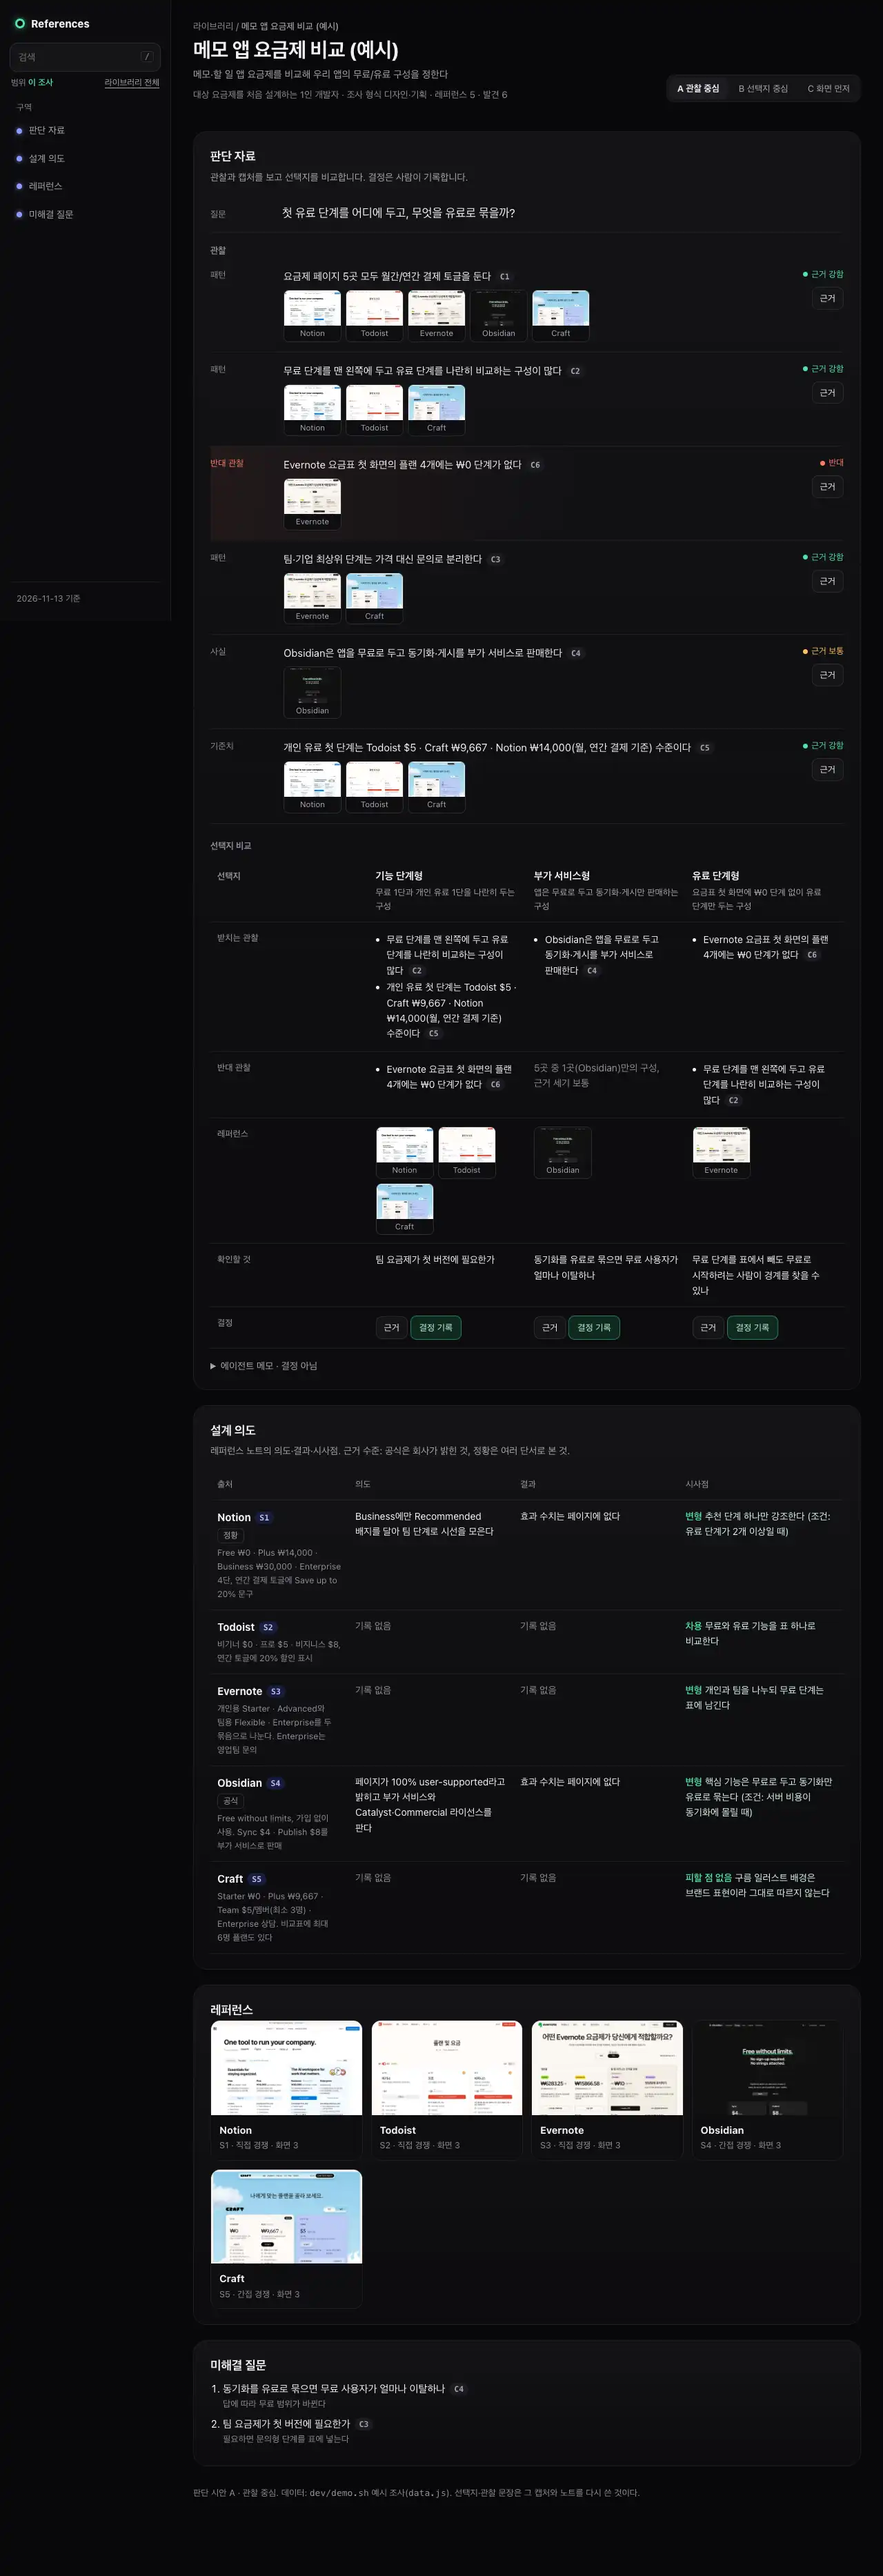
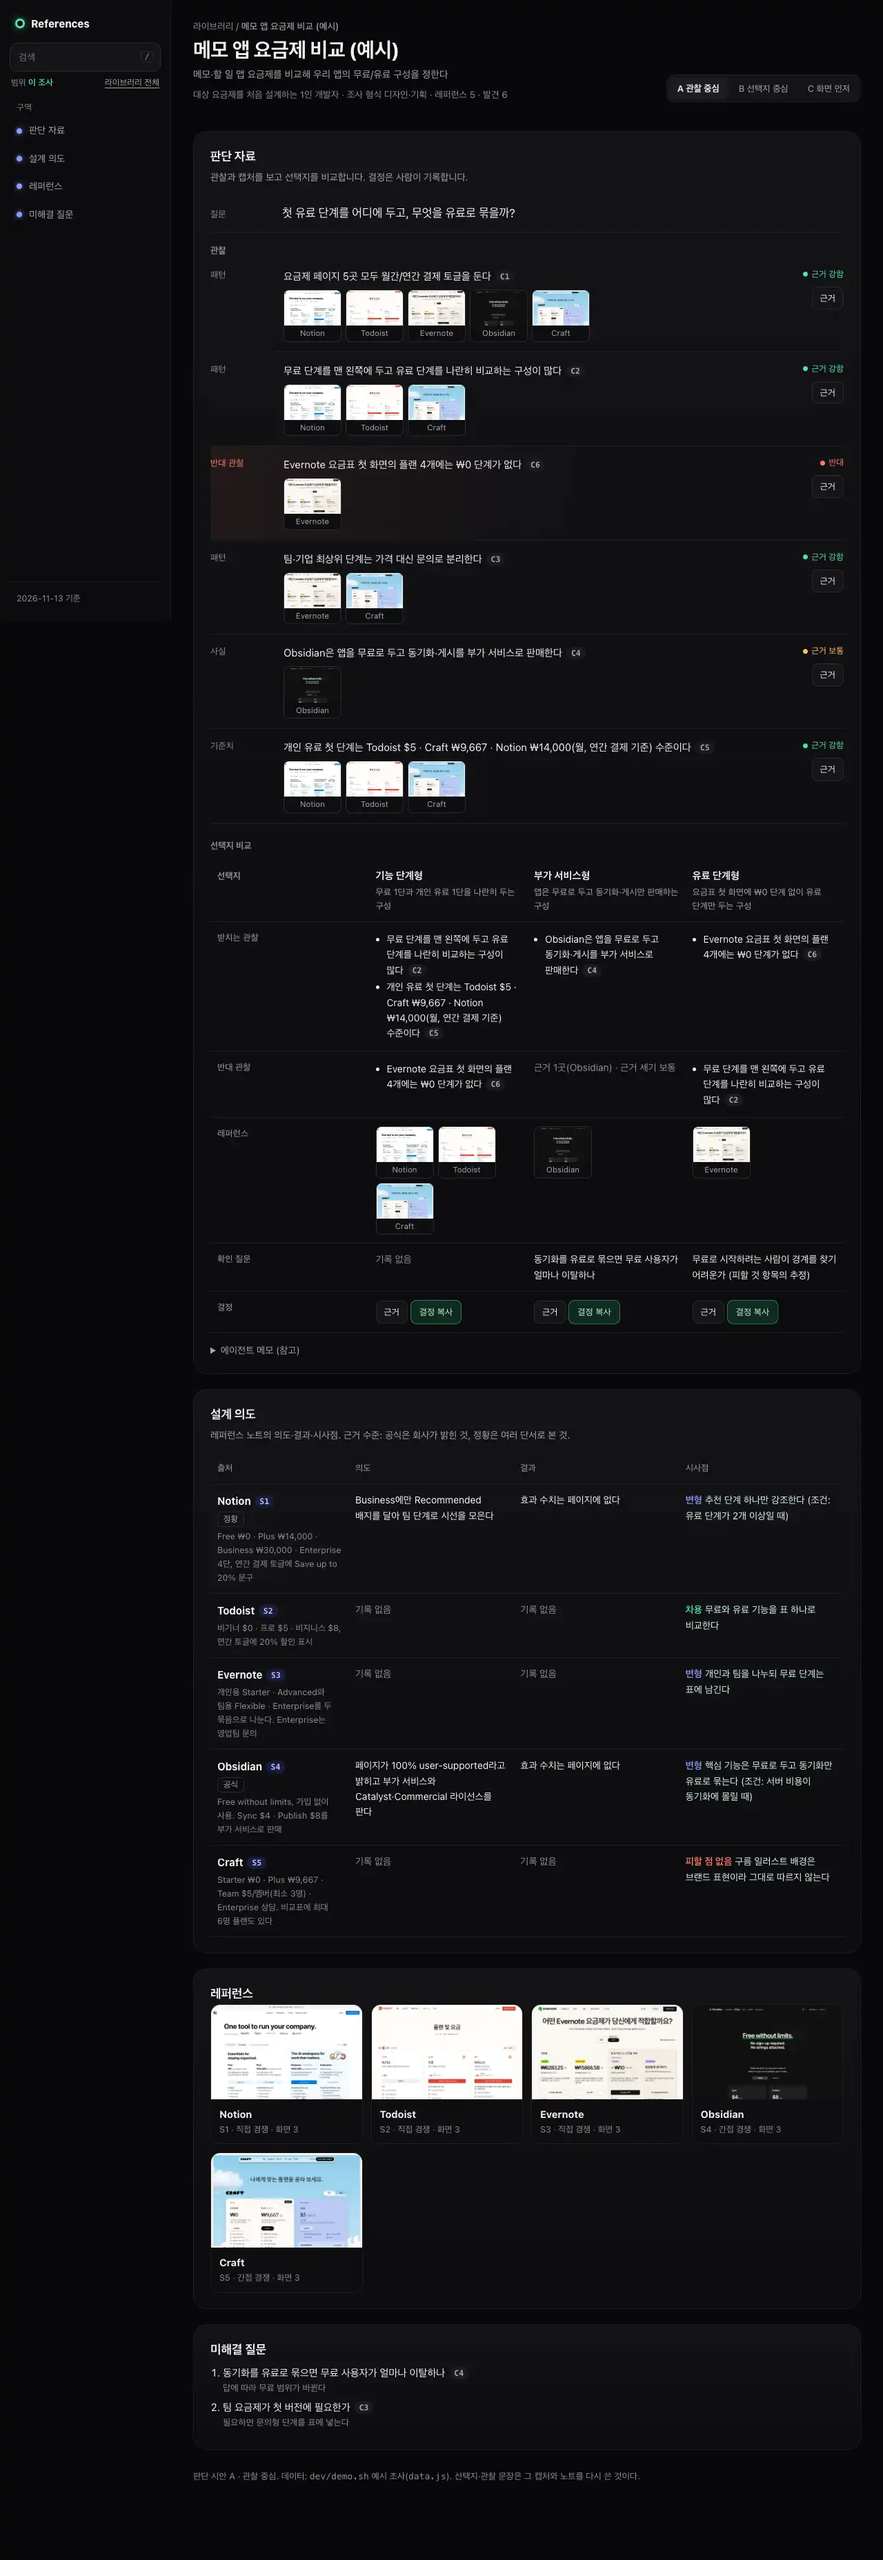
docs(board): 판단 시안 라벨·선택지 근거·검색 결과 보정
Refs: #28

diff --git a/docs/drafts/judgment.js b/docs/drafts/judgment.js
@@ -12,17 +12,17 @@
   const COUNTER = { C2: ["C6"] }; // an observation and what speaks against it
   const BASE = ["C1", "C3"]; // shared by every option
   const OPTIONS = [
-    { id: "o1", name: "기능 단계형", text: "무료 1단과 개인 유료 1단을 나란히 두는 구성", pro: ["C2", "C5"], con: ["C6"], check: B.open[1].text },
-    { id: "o2", name: "부가 서비스형", text: "앱은 무료로 두고 동기화·게시만 판매하는 구성", pro: ["C4"], con: [], conNote: "5곳 중 1곳(Obsidian)만의 구성, 근거 세기 보통", check: B.open[0].text },
-    { id: "o3", name: "유료 단계형", text: "요금표 첫 화면에 ₩0 단계 없이 유료 단계만 두는 구성", pro: ["C6"], con: ["C2"], check: "무료 단계를 표에서 빼도 무료로 시작하려는 사람이 경계를 찾을 수 있나" },
+    { id: "o1", name: "기능 단계형", text: "무료 1단과 개인 유료 1단을 나란히 두는 구성", pro: ["C2", "C5"], con: ["C6"], check: null },
+    { id: "o2", name: "부가 서비스형", text: "앱은 무료로 두고 동기화·게시만 판매하는 구성", pro: ["C4"], con: [], conNote: "근거 1곳(Obsidian) · 근거 세기 보통", check: B.open[0].text },
+    { id: "o3", name: "유료 단계형", text: "요금표 첫 화면에 ₩0 단계 없이 유료 단계만 두는 구성", pro: ["C6"], con: ["C2"], check: "무료로 시작하려는 사람이 경계를 찾기 어려운가 (피할 것 항목의 추정)" },
   ];
   // what each captured pricing page shows (from the notes in data.js)
   const SCREENS = {
     S1: ["Free ₩0", "Plus ₩14,000", "연간 토글 · 최대 20% 절약", "Business ₩30,000 · Enterprise"],
     S2: ["비기너 $0", "프로 $5", "연간 토글 · 20% 할인", "비지니스 $8"],
-    S3: [null, "Starter · Advanced", "월간/연간 토글", "Flexible · Enterprise(영업 문의)"],
-    S4: ["앱 무료(가입 없이)", "Sync $4 · Publish $8(부가 서비스)", "월간/연간 토글", "Commercial 라이선스"],
-    S5: ["Starter ₩0", "Plus ₩9,667", "월간/연간 토글", "Team $5/멤버(최소 3명) · Enterprise 상담"],
+    S3: [null, "Starter · Advanced", "C1", "Flexible · Enterprise(영업 문의)"],
+    S4: ["앱 무료(가입 없이)", "단계 없음 · Sync $4 · Publish $8 부가 서비스", "C1", ""],
+    S5: ["Starter ₩0", "Plus ₩9,667", "C1", "Team $5/멤버(최소 3명) · Enterprise 상담"],
   };
   const COLS = ["무료 단계", "개인 유료 첫 단계", "결제 주기", "팀 단계"];
 
@@ -31,7 +31,7 @@
   const sid = (id) => (id.startsWith("S") ? `<button type="button" class="sid" data-open="${id}" title="${esc(ref(id).product)} 화면">${id}</button>` : `<button type="button" class="sid c" data-panel="claim:${id}" title="${esc(claim(id).subject ?? "")}">${id}</button>`);
   const refsOf = (ids) => [...new Set(ids.flatMap((c) => claim(c).sources))];
   const thumbs = (rids, max = 5) => `<div class="thumbs">${rids.slice(0, max).map((r) => `<button type="button" data-open="${r}"><img loading="lazy" src="${ref(r).images[0]}" alt="${esc(ref(r).product)} 요금제 캡처"><span>${esc(ref(r).product)}</span></button>`).join("")}</div>`;
-  const decideBtn = (o) => `<button type="button" class="decide" data-decide="${o.id}">결정 기록</button>`;
+  const decideBtn = (o) => `<button type="button" class="decide" data-decide="${o.id}">결정 복사</button>`;
   const searchOf = (...xs) => esc(xs.flat().filter(Boolean).join(" "));
   const card = (id, title, lead, body, group) => `<section class="card" id="${id}" data-sg="${group ?? title}"><h2>${title}</h2>${lead ? `<p class="lead">${lead}</p>` : ""}${body}</section>`;
 
@@ -44,7 +44,7 @@
   };
   const obsList = (compact) => `<ul class="obs${compact ? " compact" : ""}">${OBS.map((c) => obRow(c) + (COUNTER[c] ?? []).map((x) => obRow(x, "counter")).join("")).join("")}</ul>`;
   const qRow = () => `<div class="q" data-s="${searchOf(B.question)}" data-sl="${esc(B.question)}" data-sg="판단 자료" id="question"><span class="lab">질문</span><p>${esc(B.question)}</p></div>`;
-  const memo = () => `<details class="memo" id="memo" data-s="${searchOf(B.answer.text, B.proposal.text)}" data-sl="에이전트 메모" data-sg="판단 자료"><summary>에이전트 메모 · 결정 아님</summary><p>해석: ${esc(B.answer.text)} ${B.answer.claims.map(sid).join("")}</p><p>다음 단계 후보: ${esc(B.proposal.text)} ${B.proposal.claims.map(sid).join("")}</p></details>`;
+  const memo = () => `<details class="memo" id="memo" data-s="${searchOf("에이전트 메모", B.answer.text, B.proposal.text)}" data-sl="에이전트 메모" data-sg="판단 자료"><summary>에이전트 메모 (참고)</summary><p>해석: ${esc(B.answer.text)} ${B.answer.claims.map(sid).join("")}</p><p>다음 단계 후보: ${esc(B.proposal.text)} ${B.proposal.claims.map(sid).join("")}</p></details>`;
   const optItems = (ids) => (ids.length ? `<ul>${ids.map((c) => `<li>${esc(claim(c).text)} ${sid(c)}</li>`).join("")}</ul>` : "");
 
   // A: observations, then an options table
@@ -52,7 +52,7 @@
 <tr><th scope="row">받치는 관찰</th>${OPTIONS.map((o) => `<td data-o="${esc(o.name)}">${optItems(o.pro)}</td>`).join("")}</tr>
 <tr><th scope="row">반대 관찰</th>${OPTIONS.map((o) => `<td data-o="${esc(o.name)}">${optItems(o.con)}${o.conNote ? `<span class="none">${esc(o.conNote)}</span>` : ""}</td>`).join("")}</tr>
 <tr><th scope="row">레퍼런스</th>${OPTIONS.map((o) => `<td data-o="${esc(o.name)}">${thumbs(refsOf(o.pro), 3)}</td>`).join("")}</tr>
-<tr><th scope="row">확인할 것</th>${OPTIONS.map((o) => `<td data-o="${esc(o.name)}">${esc(o.check)}</td>`).join("")}</tr>
+<tr><th scope="row">확인 질문</th>${OPTIONS.map((o) => `<td data-o="${esc(o.name)}">${o.check ? esc(o.check) : `<span class="none">기록 없음</span>`}</td>`).join("")}</tr>
 <tr><th scope="row">결정</th>${OPTIONS.map((o) => `<td data-o="${esc(o.name)}"><button type="button" class="more" data-panel="opt:${o.id}">근거</button> ${decideBtn(o)}</td>`).join("")}</tr></tbody></table>`;
 
   // B: option cards side by side
@@ -60,13 +60,13 @@
 <h3>${esc(o.name)}</h3><p>${esc(o.text)}</p>${thumbs(refsOf(o.pro), 3)}
 <h4>받치는 관찰</h4>${optItems(o.pro)}
 <h4 class="c" style="color:var(--coral)">반대 관찰</h4>${optItems(o.con) || `<p class="lab" style="margin:0">${esc(o.conNote ?? "없음")}</p>`}
-<h4>확인할 것</h4><p style="margin:0;font-size:14px">${esc(o.check)}</p>
+<h4>확인 질문</h4><p style="margin:0;font-size:14px">${o.check ? esc(o.check) : `<span class="lab">기록 없음</span>`}</p>
 <div class="acts"><button type="button" class="more" data-panel="opt:${o.id}">근거</button>${decideBtn(o)}</div></article>`).join("")}</div>`;
   const baseList = () => `<div class="base">${BASE.map((c) => `<div data-s="${searchOf(claim(c).text)}" data-sl="${esc(claim(c).text)}" data-sg="공통 기본기" id="base-${c}">${esc(claim(c).text)} ${sid(c)}</div>`).join("")}</div>`;
 
   // C: screens first
   const screens = () => `<table class="cmp"><thead><tr><th scope="col">화면</th>${COLS.map((h) => `<th scope="col">${h}</th>`).join("")}</tr></thead><tbody>${B.refs.map((r) => `<tr id="scr-${r.id}" data-s="${searchOf(r.product, SCREENS[r.id])}" data-sl="${esc(r.product)} 화면" data-sg="화면 비교">
-<td class="prod">${thumbs([r.id], 1)}<b>${esc(r.product)} ${sid(r.id)}</b></td>${SCREENS[r.id].map((v, i) => `<td data-h="${COLS[i]}">${v == null ? `<span class="no">첫 화면에 ₩0 단계 없음</span> ${sid("C6")}` : esc(v)}</td>`).join("")}</tr>`).join("")}</tbody></table>`;
+<td class="prod">${thumbs([r.id], 1)}<b>${esc(r.product)} ${sid(r.id)}</b></td>${SCREENS[r.id].map((v, i) => `<td data-h="${COLS[i]}">${v == null ? `<span class="no">₩0 단계 없음(첫 화면)</span> ${sid("C6")}` : v === "C1" ? `월간/연간 토글 ${sid("C1")}` : v === "" ? `<span class="none">기록 없음</span>` : esc(v)}</td>`).join("")}</tr>`).join("")}</tbody></table>`;
   const optCompact = () => `<ul class="obs compact">${OPTIONS.map((o) => `<li class="ob" id="opt-${o.id}" data-panel="opt:${o.id}" tabindex="0" data-s="${searchOf(o.name, o.text, o.check)}" data-sl="${esc(o.name)}" data-sg="선택지"><span class="lab">선택지</span><div><p><b>${esc(o.name)}</b> · ${esc(o.text)}</p></div><div class="side2">${decideBtn(o)}</div></li>`).join("")}</ul>`;
 
   // shared: intent comparison table (notes: 기능 · 의도 · 결과 · 시사점)
@@ -75,7 +75,8 @@
     const imp = note(r, "시사점") ?? "";
     const [verb, rest] = imp.includes(" — ") ? imp.split(" — ") : ["", imp];
     const cell = (k, h) => { const v = note(r, k); return `<td data-h="${h}">${v ? esc(v.replace(/\s*\[S\d+\]/g, "")) : `<span class="nil">기록 없음</span>`}</td>`; };
-    return `<tr id="int-${r.id}" data-s="${searchOf(r.product, r.note.map(([, v]) => v))}" data-sl="${esc(r.product)} 설계 의도" data-sg="설계 의도"><td><b>${esc(r.product)} ${sid(r.id)}</b>${r.basis ? `<span class="tag" style="margin-top:4px">${esc(r.basis)}</span>` : ""}<small>${esc((note(r, "기능") ?? "").replace(/\s*\[S\d+\]/g, ""))}</small></td>${cell("의도", "의도")}${cell("결과", "결과")}<td data-h="시사점" class="imp">${verb ? `<em>${esc(verb)}</em>` : ""}${esc(rest)}</td></tr>`;
+    const vcls = { 차용: "v-take", 변형: "v-adapt" }[verb] ?? (verb ? "v-avoid" : "");
+    return `<tr id="int-${r.id}" data-s="${searchOf(r.product, r.note.map(([, v]) => v))}" data-sl="${esc(r.product)} 설계 의도" data-sg="설계 의도"><td><b>${esc(r.product)} ${sid(r.id)}</b>${r.basis ? `<span class="tag" style="margin-top:4px">${esc(r.basis)}</span>` : ""}<small>${esc((note(r, "기능") ?? "").replace(/\s*\[S\d+\]/g, ""))}</small></td>${cell("의도", "의도")}${cell("결과", "결과")}<td data-h="시사점" class="imp">${verb ? `<em class="${vcls}">${esc(verb)}</em>` : ""}${esc(rest)}</td></tr>`;
   }).join("")}</tbody></table>`;
   const refsGrid = () => `<div class="rgrid">${B.refs.map((r) => `<article class="rcard" id="${r.id}" data-s="${searchOf(r.id, r.product, r.page, r.url)}" data-sl="${esc(r.product)} — ${esc(r.page)}" data-sg="레퍼런스"><button type="button" class="img" data-open="${r.id}"><img loading="lazy" src="${r.images[0]}" alt="${esc(r.product)} ${esc(r.page)} 캡처"></button><div><b>${esc(r.product)}</b><span>${r.id} · ${esc(r.role)} · 화면 ${r.images.length}</span></div></article>`).join("")}</div>`;
   const openQs = () => `<ol class="openq">${B.open.map((q, i) => `<li id="oq-${i}" data-s="${searchOf(q.text, q.why)}" data-sl="${esc(q.text)}" data-sg="미해결 질문">${esc(q.text)} ${q.claims.map(sid).join("")}<span>${esc(q.why)}</span></li>`).join("")}</ol>`;
@@ -110,7 +111,7 @@ ${card("open", "미해결 질문", "", openQs())}`;
     } else {
       const o = OPTIONS.find((x) => x.id === id);
       head = `<small>선택지</small>${esc(o.name)}`;
-      body = `<p style="margin:12px 0 0;color:var(--muted)">${esc(o.text)}</p><h3>받치는 관찰</h3>${o.pro.map(pcClaim).join("")}<h3 class="c">반대 관찰</h3>${o.con.length ? o.con.map(pcClaim).join("") : `<p class="lab">${esc(o.conNote ?? "없음")}</p>`}<h3>확인할 것</h3><div class="pcheck">${esc(o.check)}</div><p style="margin-top:14px">${decideBtn(o)}</p>`;
+      body = `<p style="margin:12px 0 0;color:var(--muted)">${esc(o.text)}</p><h3>받치는 관찰</h3>${o.pro.map(pcClaim).join("")}<h3 class="c">반대 관찰</h3>${o.con.length ? o.con.map(pcClaim).join("") : `<p class="lab">${esc(o.conNote ?? "없음")}</p>`}<h3>확인 질문</h3><div class="pcheck">${o.check ? esc(o.check) : "기록 없음"}</div><p style="margin-top:14px">${decideBtn(o)}</p>`;
     }
     P.querySelector("h2").innerHTML = head;
     P.querySelector(".body").innerHTML = body;
@@ -157,7 +158,7 @@ ${card("open", "미해결 질문", "", openQs())}`;
     const groups = new Map();
     for (const el of items()) if (el.dataset.s.toLowerCase().includes(t)) (groups.get(el.dataset.sg) ?? groups.set(el.dataset.sg, []).get(el.dataset.sg)).push(el);
     const n = [...groups.values()].reduce((a, g) => a + g.length, 0);
-    S.innerHTML = `<header><b>"${esc(q.value.trim())}" ${n}건</b><span>범위: 이 조사 · Esc 닫기</span></header>${n ? [...groups].map(([g, els]) => `<h3>${esc(g)} <i>${els.length}</i></h3>${els.map((el) => `<button type="button" class="hit" data-goto="${el.id}">${hl(el.dataset.sl || el.dataset.s, t)}${(el.dataset.sl || "").toLowerCase().includes(t) ? "" : `<small>${snip(el.dataset.s, t)}</small>`}</button>`).join("")}`).join("") : `<p class="none">이 조사에는 맞는 항목이 없습니다.</p>`}<p class="none"><a href="g-neon-mix.html#home">라이브러리 전체에서 찾기</a></p>`;
+    S.innerHTML = `<header><b>"${esc(q.value.trim())}" ${n}건</b><span>범위: 이 조사 · Esc 닫기</span></header>${n ? [...groups].map(([g, els]) => `<h3>${esc(g)} <i>${els.length}</i></h3>${els.map((el) => `<button type="button" class="hit" data-goto="${el.id}">${hl(el.dataset.sl || el.dataset.s, t)}${(el.dataset.sl || "").toLowerCase().includes(t) ? "" : `<small>${snip(el.dataset.s.replace(el.dataset.sl ?? "", ""), t)}</small>`}</button>`).join("")}`).join("") : `<p class="none">이 조사에는 맞는 항목이 없습니다.</p>`}<p class="none"><a href="g-neon-mix.html#home">라이브러리 전체에서 찾기</a></p>`;
     S.hidden = false;
   }
   q.addEventListener("input", runSearch);

diff --git a/docs/drafts/judgment.css b/docs/drafts/judgment.css
@@ -14,36 +14,29 @@ body{margin:0;background:var(--bg);color:var(--text);font:15px/1.6 var(--sans);w
 a{color:var(--n-blue);text-underline-offset:3px}
 :focus-visible{outline:2px solid var(--n-blue);outline-offset:2px;border-radius:4px}
 button{font:inherit;color:inherit;cursor:pointer}
-.num{font-variant-numeric:tabular-nums}
 .shell{display:grid;grid-template-columns:248px minmax(0,1fr);min-height:100vh}
 /* sidebar */
 .side{position:sticky;top:0;height:100vh;overflow:auto;background:var(--side);border-right:1px solid var(--line);padding:22px 14px;display:flex;flex-direction:column;gap:16px}
 .brand{display:flex;align-items:center;gap:9px;font-weight:800;color:var(--text);text-decoration:none;padding:0 8px}
 .brand i{width:14px;height:14px;border-radius:50%;border:3px solid var(--n-green);box-shadow:0 0 10px rgba(79,227,165,.7)}
-.views{display:grid;grid-template-columns:1fr 1fr;gap:3px;background:var(--track);border:1px solid var(--line);padding:3px;border-radius:11px}
-.views a{text-align:center;color:var(--muted);text-decoration:none;padding:6px;border-radius:8px;font-size:13.5px}
-.views a[aria-current=page]{background:#1d1d22;color:var(--text);font-weight:650}
 .search{position:relative}
 .search input{width:100%;font:inherit;font-size:14px;padding:9px 34px 9px 12px;border:1px solid var(--line2);border-radius:11px;background:var(--track);color:var(--text);outline:none}
 .search input:focus{border-color:var(--n-blue);box-shadow:0 0 0 3px rgba(140,152,255,.18)}
 .search kbd{position:absolute;right:10px;top:50%;transform:translateY(-50%);font:12px var(--mono);color:var(--faint);border:1px solid var(--line2);border-radius:4px;padding:0 5px}
 .grp{font-size:12.5px;color:var(--faint);padding:0 10px;margin:0 0 4px;letter-spacing:.04em}
 .navl{display:flex;flex-direction:column;gap:2px}
-.navl a,.navl .ci{display:flex;align-items:center;gap:10px;padding:8px 10px;border-radius:10px;color:var(--muted);text-decoration:none;font-size:14px;transition:background .15s,color .15s}
+.navl a{display:flex;align-items:center;gap:10px;padding:8px 10px;border-radius:10px;color:var(--muted);text-decoration:none;font-size:14px;transition:background .15s,color .15s}
 .navl em{flex:none;font-style:normal;font-size:11px;color:var(--faint);border:1px dashed var(--line2);border-radius:5px;padding:0 5px}
 .navl a:hover,.navl a[aria-current=page],.navl a[aria-current=true]{background:var(--track);color:var(--text)}
-.navl a i,.navl .ci i{width:8px;height:8px;border-radius:50%;flex:none;background:var(--c);box-shadow:0 0 8px var(--c)}
-.navl a span,.navl .ci span{flex:1;min-width:0;overflow:hidden;text-overflow:ellipsis;white-space:nowrap}
+.navl a i{width:8px;height:8px;border-radius:50%;flex:none;background:var(--c);box-shadow:0 0 8px var(--c)}
+.navl a span{flex:1;min-width:0;overflow:hidden;text-overflow:ellipsis;white-space:nowrap}
 .navl small{color:var(--faint);font-variant-numeric:tabular-nums}
 .sfoot{margin-top:auto;border-top:1px solid var(--line);padding:14px 10px 0;font-size:12.5px;color:var(--faint)}
 main{min-width:0;padding:28px 32px 110px;max-width:1520px}
-#searchinfo{margin:0 0 12px;color:var(--muted);font-size:14px}
 .head{display:flex;justify-content:space-between;align-items:flex-end;gap:16px;flex-wrap:wrap;margin-bottom:20px}
 .crumb{font-size:13.5px;color:var(--faint);margin:0 0 4px}.crumb b{color:var(--muted);font-weight:500}
 h1{margin:0;font-size:30px;line-height:1.2;letter-spacing:-.02em}
 .sub{margin:6px 0 0;color:var(--muted);font-size:14.5px;max-width:72ch}
-.tools{display:flex;gap:8px;flex-wrap:wrap}
-.seg{display:inline-flex;gap:2px;background:var(--track);border:1px solid var(--line);border-radius:12px;padding:3px}
 .card{background:var(--card);border:1px solid var(--line);border-radius:20px;position:relative;overflow:hidden}
 .vw{border:0;padding:0;width:100vw;height:100vh;max-width:none;max-height:none;background:#060607;color:#f2f2f4}
 .vw::backdrop{background:rgba(0,0,0,.78)}
@@ -124,7 +117,6 @@ h1{margin:0;font-size:30px;line-height:1.2;letter-spacing:-.02em}
 .ocard h4{margin:4px 0 0;font-size:12.5px;color:var(--faint);font-weight:500}
 .ocard ul{margin:0;padding-left:16px;font-size:14px}.ocard li{margin:3px 0}
 .ocard .acts{margin-top:auto;display:flex;gap:8px;flex-wrap:wrap;padding-top:6px}
-.ocard.counterline h4.c{color:var(--coral)}
 .base{display:grid;grid-template-columns:repeat(2,minmax(0,1fr));gap:10px}
 .base div{border:1px dashed var(--line2);border-radius:12px;padding:10px 14px;font-size:14px}
 /* screen comparison (C) */
@@ -146,7 +138,7 @@ details.memo p{margin:8px 0 0;font-size:14px;color:var(--muted)}
 .itbl td:first-child small{display:block;color:var(--faint);font-size:12.5px;margin-top:4px}
 .itbl .nil{color:var(--faint)}
 .itbl .imp{color:#d6f5e6}
-.itbl .imp em{font-style:normal;color:var(--n-green);font-weight:600;margin-right:4px}
+.itbl .imp em{font-style:normal;font-weight:600;margin-right:4px}.itbl .imp em.v-take{color:var(--n-green)}.itbl .imp em.v-adapt{color:var(--n-blue)}.itbl .imp em.v-avoid{color:var(--coral)}
 /* refs */
 .rgrid{display:grid;grid-template-columns:repeat(auto-fill,minmax(220px,1fr));gap:12px}
 .rcard{border:1px solid var(--line);border-radius:14px;overflow:hidden;background:var(--paper)}
@@ -187,7 +179,8 @@ body.panel-open main{margin-right:440px}
 .flash{animation:flash 1.6s ease}
 @keyframes flash{0%,40%{box-shadow:0 0 0 2px var(--n-yellow)}100%{box-shadow:0 0 0 0 transparent}}
 footer{margin-top:28px;color:var(--faint);font-size:13px}
-@media (max-width:1280px){body.panel-open main{margin-right:0}.ocards{grid-template-columns:1fr}}
+@media (max-width:1280px){body.panel-open main{margin-right:0}}
+@media (max-width:1100px){.ocards{grid-template-columns:1fr}}
 @media (max-width:1100px){
   .shell{display:block}
   .side{position:sticky;height:auto;z-index:30;flex-direction:row;flex-wrap:wrap;align-items:center;gap:8px 12px;padding:10px 16px;border-right:0;border-bottom:1px solid var(--line)}
